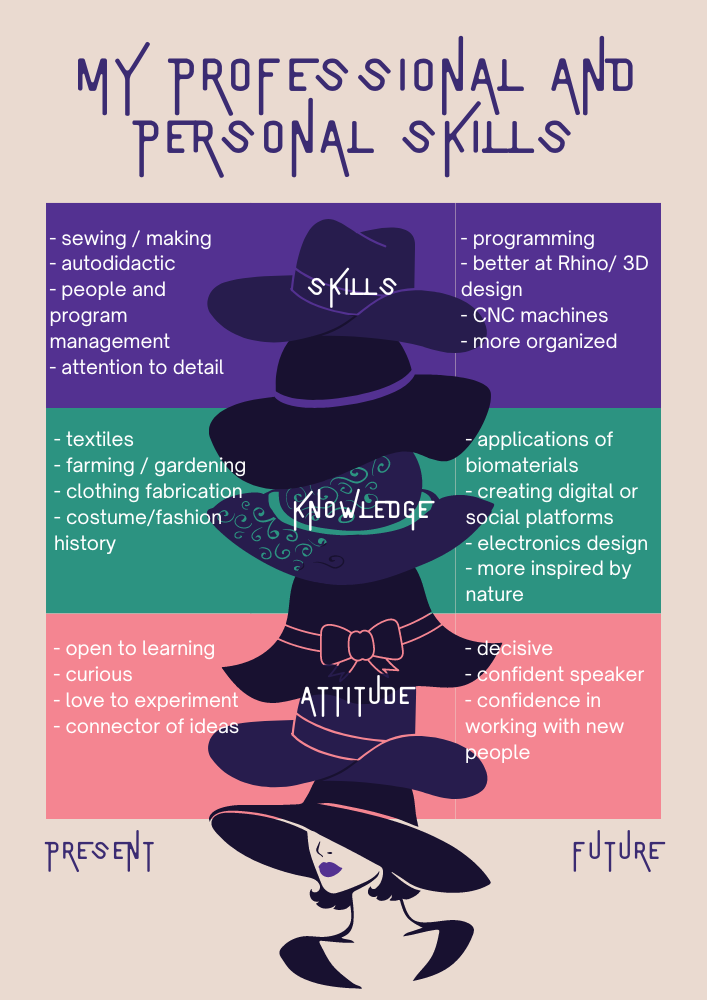
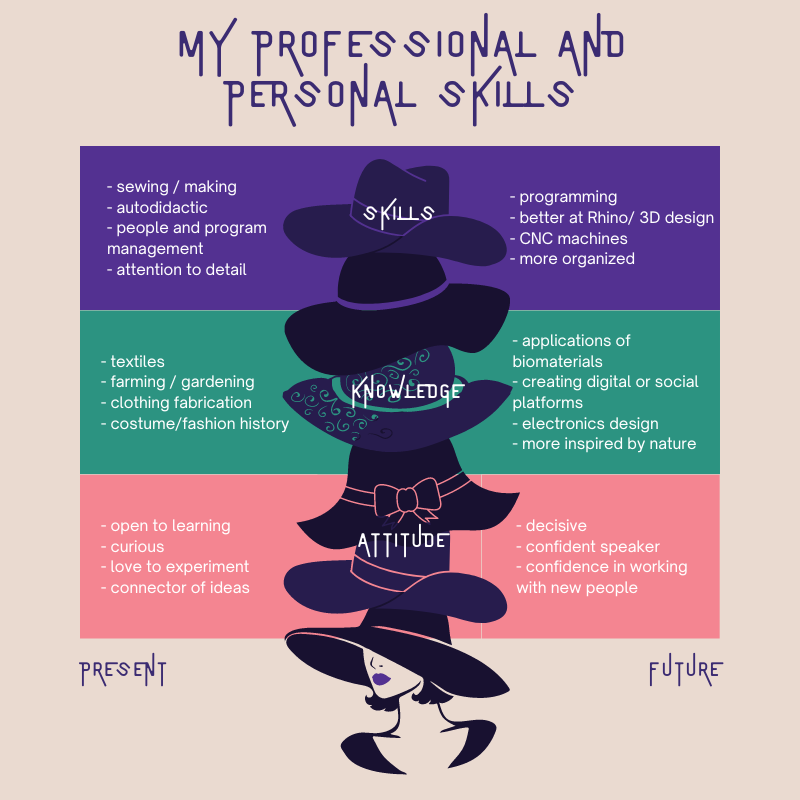
added more to bootcamp assignment

diff --git a/docs/term01/bootcamp.md b/docs/term01/bootcamp.md
@@ -12,15 +12,34 @@ I have a dream in the future to open an inclusive community makerspace centered 
 
 ![My fight poster](../images/term-01/bootcamp/RegenerationSpace.png)
 
-## Vision, collaboration plan and personal development
+## Assignment: Vision, collaboration plan and personal development
+
+Assignment: Create your own personal development plan for the master (1st Trimester).
+* Create your design vision of how our (social) world could be in the (near) future
+* Describe your professional identity in terms of skills, knowledge and attitude.
+* Reflect on the “meetings” by analyzing what attracts you from their skills, knowledge and attitude
+* Based on your vision and what attracts you from the “meetings” create your desired professional
+identity
+* Map the courses we are having this trimester in terms of what you have learned (for the past ones),
+and what you would like to learn (ones to come).
+* Justify and describe your personal development plan for the master program
+
 
 ### Vision
 My design vision for how our (social) world could be in the (near) future. 
 
-### Professional identity
+### Professional Identity
 
-For this section we were asked to 
+For this section we were first asked to describe our professional identity in terms of our skills, knowledge, and attitudes. Next we had the opportunity to have conversations with our classmates in the form of interviews and reflect on what attracts us to their skills, knowledge, and attitudes. 
+
+![Professional and personal skills](../images/term-01/bootcamp/professionalskills.png)
+
+### Map of MDEF Courses
+
+For this part of the assignment we were asked to map the courses we are taking this trimester in terms of what we want to get out for the program. I chose to think if each course in terms of what I  want to practice, what I want to learn from each, and reflecting on my motivations for this. Lastly we were asked to justify and describe a personal development plan for the master program. 
 
 |   Course        |  What I want to practice        |  What I want to learn         |  Reflecting on motivation          |
 |:----------------|:--------------------------------|:------------------------------|:-----------------------------------|
 | Atlas of Weak Signals   | Getting used to putting myself and my daily life in context of current trends |  Want to learn what it means to be hyper local | openness to connecting daily life to the future |
+
+#### MDEF Personal Development Plan
